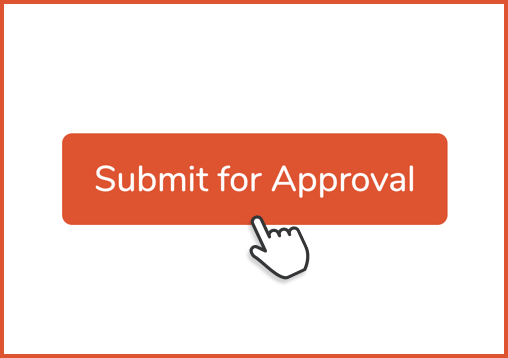
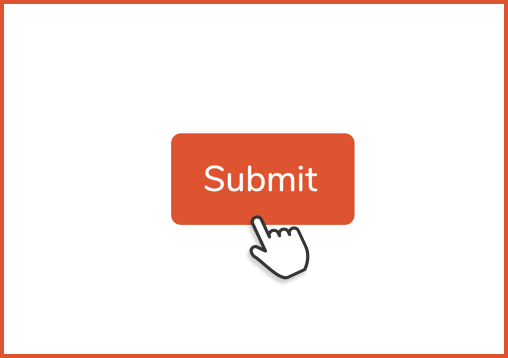
Change submit button text

Changed region(s): [[0.1181, 0.3687, 0.8858, 0.6453]]

diff --git a/src/resources/js/app.js b/src/resources/js/app.js
@@ -106,7 +106,7 @@ $(function () {
 
         myDropzone.on('error', function (file) {
             uploadSubmit.prop('disabled', false);
-            uploadSubmit.html('Submit for Approval');
+            uploadSubmit.html('Submit');
         });
 
         infoSubmit.on('click', () => {

diff --git a/src/resources/views/media-item/partials/edit-form.blade.php b/src/resources/views/media-item/partials/edit-form.blade.php
@@ -250,7 +250,7 @@
 
     @if (!$hideButton)
         <button id='confirm-info-button' data-toggle='modal' data-target='#info-modal' class='btn btn-primary mt-2'>
-            {{ __('Submit for Approval') }}
+            {{ __('Submit') }}
         </button>
     @else
         <input type="submit" class="btn btn-primary" value="Save Changes" />
